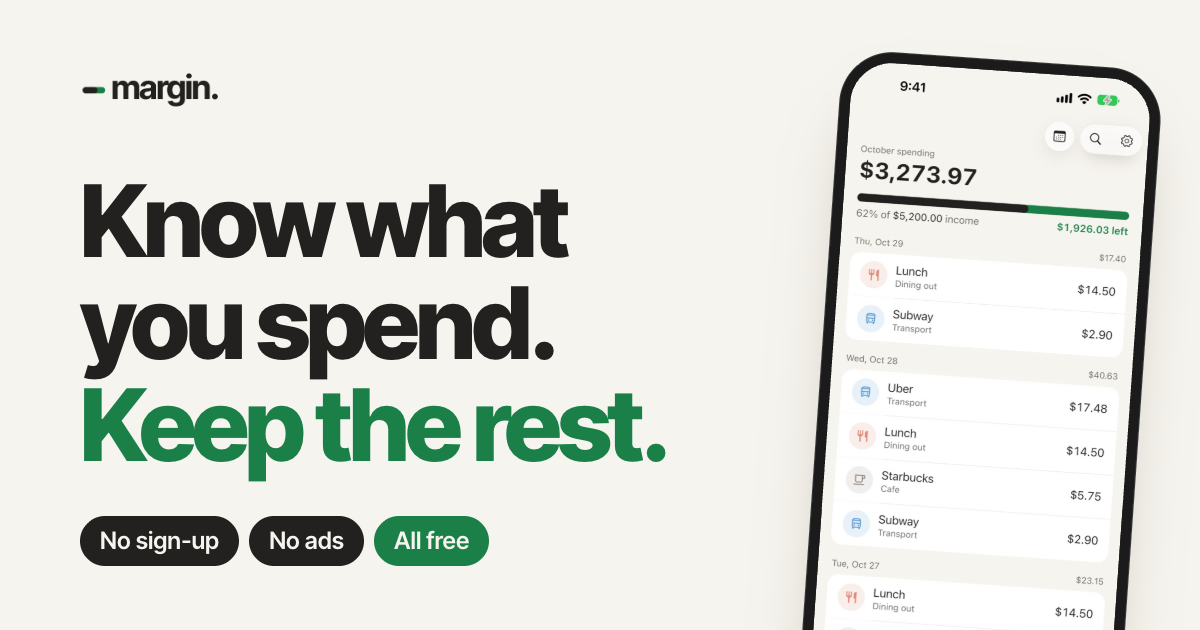
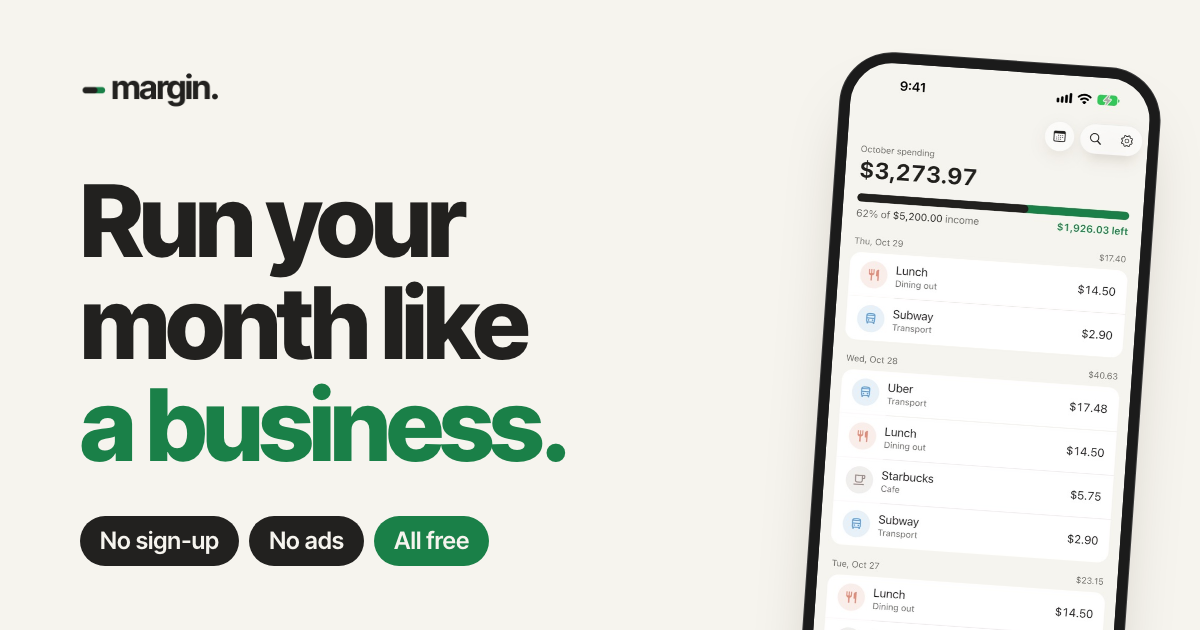
Landing: lead with "Run your month like a business"
- New brand line on the page and the link-preview cards
- FAQ: buying or selling stock counts as neither income nor spending

Changed region(s): [[0.0617, 0.2714, 0.555, 0.7841]]

diff --git a/index.html b/index.html
@@ -3,8 +3,8 @@
 <head>
 <meta charset="utf-8">
 <meta name="viewport" content="width=device-width, initial-scale=1">
-<title>margin — Know what you spend. Keep the rest.</title>
-<meta name="description" content="margin is an expense tracker that takes seconds to use. No sign-up, no ads, no paid features, and every entry stays on your phone. Free on iPhone and Android.">
+<title>margin — Run your month like a business</title>
+<meta name="description" content="margin shows what came in, what went out, and what you kept this month. Log in seconds. No sign-up, no ads, no paid features, and every entry stays on your phone. Free on iPhone and Android.">
 <!-- Link previews read these without running JS, so they can't follow the visitor's language.
      This page is the English card; ko/ is the same site with the Korean card (the app shares it when set to Korean). -->
 <meta property="og:type" content="website">
@@ -12,12 +12,12 @@
 <meta property="og:site_name" content="margin">
 <meta property="og:locale" content="en_US">
 <meta property="og:locale:alternate" content="ko_KR">
-<meta property="og:title" content="margin — Know what you spend. Keep the rest.">
-<meta property="og:description" content="An expense tracker that takes seconds to use. No sign-up, no ads, every feature free, and your data stays on your phone.">
+<meta property="og:title" content="margin — Run your month like a business">
+<meta property="og:description" content="See what came in, what went out, and what you kept this month. Log in seconds. No sign-up, no ads, every feature free, and your data stays on your phone.">
 <meta property="og:image" content="https://minjaegil.github.io/margin/assets/og-card-en.png">
 <meta property="og:image:width" content="1200">
 <meta property="og:image:height" content="630">
-<meta property="og:image:alt" content="margin — Know what you spend. Keep the rest. No sign-up, no ads, all free.">
+<meta property="og:image:alt" content="margin — Run your month like a business. No sign-up, no ads, all free.">
 <link rel="alternate" hreflang="ko" href="https://minjaegil.github.io/margin/ko/">
 <meta name="twitter:card" content="summary_large_image">
 <meta name="theme-color" content="#F6F4EE" media="(prefers-color-scheme: light)">
@@ -283,8 +283,8 @@
   <!-- 1. Hero: the philosophy -->
   <section class="wrap hero">
     <div>
-      <h1 data-i18n="heroTitle">Know what you spend.<br><em>Keep the rest.</em></h1>
-      <p class="lead" data-i18n="heroLead">Log spending in seconds. No sign-up, no ads, and every entry stays on your phone.</p>
+      <h1 data-i18n="heroTitle">Run your month<br><em>like a business.</em></h1>
+      <p class="lead" data-i18n="heroLead">What came in, what went out, what you kept this month. Log in seconds. No sign-up, no ads, all on your phone.</p>
       <div class="stores" data-stores></div>
       <p class="meta"><span class="free" data-i18n="heroFree">Every feature free</span><span data-i18n="heroMeta">No ads · No paid features · iPhone and Android</span></p>
     </div>
@@ -308,7 +308,7 @@
       </div>
       <ul class="feed" id="g-feed" aria-label="Recent entries"></ul>
     </div>
-    <p class="g-note" data-i18n="gNote">Every entry updates what you’ve spent this month. That’s the whole idea.</p>
+    <p class="g-note" data-i18n="gNote">Every entry updates what you’ve spent and what’s left this month. Not your balance, just this month. Know what you spend, keep the rest.</p>
   </section>
 
   <!-- 3. How the philosophy shows up in the app -->
@@ -433,6 +433,8 @@
       <p class="contact"><span data-i18n="supD">Questions or ideas? Email us at</span><br><a href="mailto:minjaegil05@gmail.com">minjaegil05@gmail.com</a></p>
     </div>
     <div>
+      <details><summary data-i18n="q7">Does it show my balance or net worth?</summary>
+        <p data-i18n="a7">No. margin shows what you kept this month: what came in minus what went out. Your bank and brokerage apps know your balances best, so savings deposits, buying or selling stock, and transfers between your accounts aren’t counted here.</p></details>
       <details><summary data-i18n="q1">Where is my data stored?</summary>
         <p data-i18n="a1">Everything stays on your device. There is no server or account, so not even the developer can see it.</p></details>
       <details><summary data-i18n="q4">Is it really all free?</summary>
@@ -441,6 +443,8 @@
         <p data-i18n="a5">Go to Settings → Features → Add-ons. They start off so the app stays simple, and turning one off never deletes your records.</p></details>
       <details><summary data-i18n="q6">How does a split expense count toward my spending?</summary>
         <p data-i18n="a6">You log what you paid, and every time a friend pays you back, that amount comes off your spending. It comes off the month you paid, so if you paid in September and got paid back in October, September’s spending goes down.</p></details>
+      <details><summary data-i18n="q8">When do I log a card purchase?</summary>
+        <p data-i18n="a8">On the day you spent it, not when the card bill is paid. Paying the bill isn’t new spending, so don’t log it again.</p></details>
       <details><summary data-i18n="q2">Can I move my data to a new device?</summary>
         <p data-i18n="a2">Use Settings → Export data to save a file, then Settings → Import data on the new device. If iCloud Backup is on, restoring a backup also brings it over.</p></details>
       <details><summary data-i18n="q3">How do I add a widget?</summary>
@@ -478,15 +482,15 @@
 <script>
 (function () {
   var KO = {
-    title: "margin — 아는 만큼 남는다",
+    title: "margin — 나를 경영하는 가계부",
     navCta: "다운로드",
-    heroTitle: "아는 만큼<br><em>남는다.</em>",
-    heroLead: "몇 초면 끝나는 지출 기록. 가입도, 광고도 없이 모든 기록은 내 폰에만 남아요.",
+    heroTitle: "나를 경영하는<br><em>가계부.</em>",
+    heroLead: "이번 달 얼마 벌고, 얼마 쓰고, 얼마 남겼는지 몇 초짜리 기록으로 봐요. 가입도 광고도 없이 내 폰에만.",
     heroFree: "전부 무료", heroMeta: "광고 없음 · 유료 기능 없음 · iPhone과 Android",
     ask: "<span class=\"soft\">월급이 얼마인지는 알아도,</span><br>이번 달 얼마 썼는지는 모르잖아요.",
     askSub: "카드로 쓰다 보면 얼마 썼는지 감이 사라져요. margin은 몇 초짜리 기록으로 그 감각을 되돌려 줘요.",
     gLabel: "이번 달 쓴 돈", gIncome: "수입", gKeep: "남은 돈",
-    gNote: "적을 때마다 이번 달 쓴 돈이 바로 보여요. margin이 하는 일은 이게 전부예요.",
+    gNote: "적을 때마다 이번 달 쓴 돈과 남은 돈이 바로 보여요. 통장 잔고가 아니라 이번 달만. 아는 만큼 남아요.",
     pTitle: "계속 적게 되는 <em>세 가지 이유</em>",
     pLead: "얼마 쓰는지 알려면 쓸 때마다 적어야 해요. 그런데 대부분 귀찮아서 가계부를 그만두죠. margin은 계속 적을 수 있게 만드는 세 가지에 집중했어요.",
     f1e: "빠르게", f1t: "금액, 내용, 카테고리. 몇 초면 끝.",
@@ -523,6 +527,8 @@
     q5: "나눠 내기와 태그는 어떻게 켜나요?", a5: "설정 → 기능 → 추가 기능에서 켜요. 처음엔 꺼져 있어서 앱이 단순하게 유지되고, 꺼도 기록은 지워지지 않아요.",
     q6: "나눠 낸 지출은 내 지출에 어떻게 잡히나요?", a6: "결제한 금액으로 기록하고, 친구에게 받을 때마다 받은 만큼 내 지출에서 빠져요. 결제한 달에서 빠지기 때문에 9월에 결제하고 10월에 받아도 9월 지출이 줄어요.",
     supT: "지원", supD: "문의나 제안은 이메일로 보내 주세요.",
+    q7: "잔고나 자산도 보여 주나요?", a7: "아니요. margin은 이번 달 얼마 남겼는지(들어온 돈 − 나간 돈)만 봐요. 잔고와 자산은 은행·증권 앱이 더 정확해요. 그래서 적금 넣기, 주식 사고팔기, 내 계좌끼리 이체는 수입이나 지출로 적지 않아요.",
+    q8: "카드로 쓴 돈은 언제 적나요?", a8: "카드값이 빠지는 날이 아니라 쓴 날 적어요. 카드값을 내는 건 새로 쓴 돈이 아니라서 다시 적지 않아요.",
     q1: "데이터는 어디에 저장되나요?", a1: "모든 데이터는 기기 안에만 저장됩니다. 서버나 로그인이 없어서 개발자도 볼 수 없어요.",
     q2: "기기를 바꾸면 데이터를 옮길 수 있나요?", a2: "설정 → 데이터 내보내기로 파일을 저장한 뒤, 새 기기에서 설정 → 데이터 불러오기를 하면 됩니다. iCloud 기기 백업이 켜져 있으면 백업 복원으로도 옮겨져요.",
     q3: "위젯은 어떻게 추가하나요?", a3: "홈 화면이나 잠금 화면을 길게 누르고 편집 → 위젯 추가에서 margin을 고르세요. 탭하면 바로 입력 화면이 열립니다.",

diff --git a/ko/index.html b/ko/index.html
@@ -3,21 +3,21 @@
 <head>
 <meta charset="utf-8">
 <meta name="viewport" content="width=device-width, initial-scale=1">
-<title>margin — 아는 만큼 남는다</title>
+<title>margin — 나를 경영하는 가계부</title>
 <!-- Korean link preview for the same site. The app shares this URL when it is set to Korean.
      Link previews don't run JS, so they read these tags; people are sent on to the main page in Korean. -->
 <meta name="robots" content="noindex">
-<meta name="description" content="가입 없이 몇 초 만에 적는 가계부. 광고도 유료 기능도 없이 전부 무료이고, 기록은 내 폰에만 남아요.">
+<meta name="description" content="이번 달 얼마 벌고, 얼마 쓰고, 얼마 남겼는지 보는 가계부. 기록은 몇 초, 광고도 유료 기능도 없이 전부 무료이고, 기록은 내 폰에만 남아요.">
 <meta property="og:type" content="website">
 <meta property="og:url" content="https://minjaegil.github.io/margin/ko/">
 <meta property="og:site_name" content="margin">
 <meta property="og:locale" content="ko_KR">
-<meta property="og:title" content="margin — 아는 만큼 남는다">
-<meta property="og:description" content="가입 없이 몇 초 만에 적는 가계부. 광고도 유료 기능도 없이 전부 무료이고, 기록은 내 폰에만 남아요.">
+<meta property="og:title" content="margin — 나를 경영하는 가계부">
+<meta property="og:description" content="이번 달 얼마 벌고, 쓰고, 남겼는지 몇 초면 기록 끝. 광고도 유료 기능도 없이 전부 무료이고, 기록은 내 폰에만 남아요.">
 <meta property="og:image" content="https://minjaegil.github.io/margin/assets/og-card-ko.png">
 <meta property="og:image:width" content="1200">
 <meta property="og:image:height" content="630">
-<meta property="og:image:alt" content="margin — 아는 만큼 남는다. 가입 없음 · 광고 없음 · 전부 무료">
+<meta property="og:image:alt" content="margin — 나를 경영하는 가계부. 가입 없음 · 광고 없음 · 전부 무료">
 <meta name="twitter:card" content="summary_large_image">
 <link rel="alternate" hreflang="en" href="https://minjaegil.github.io/margin/">
 <link rel="icon" href="../assets/favicon.png">
